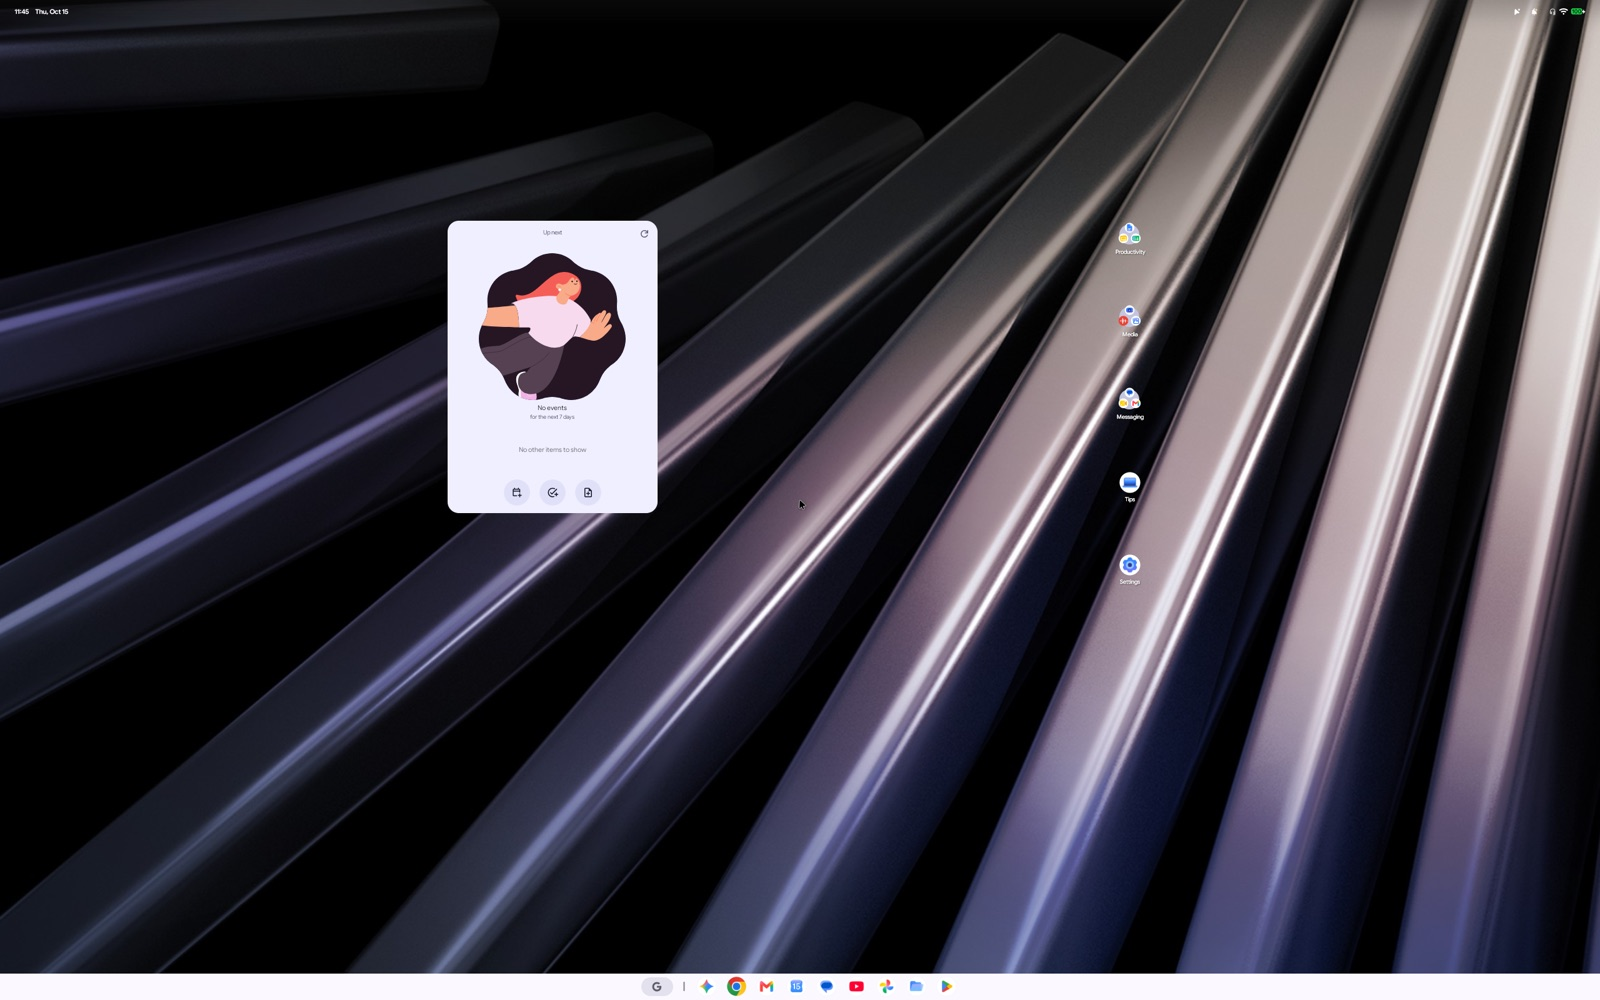
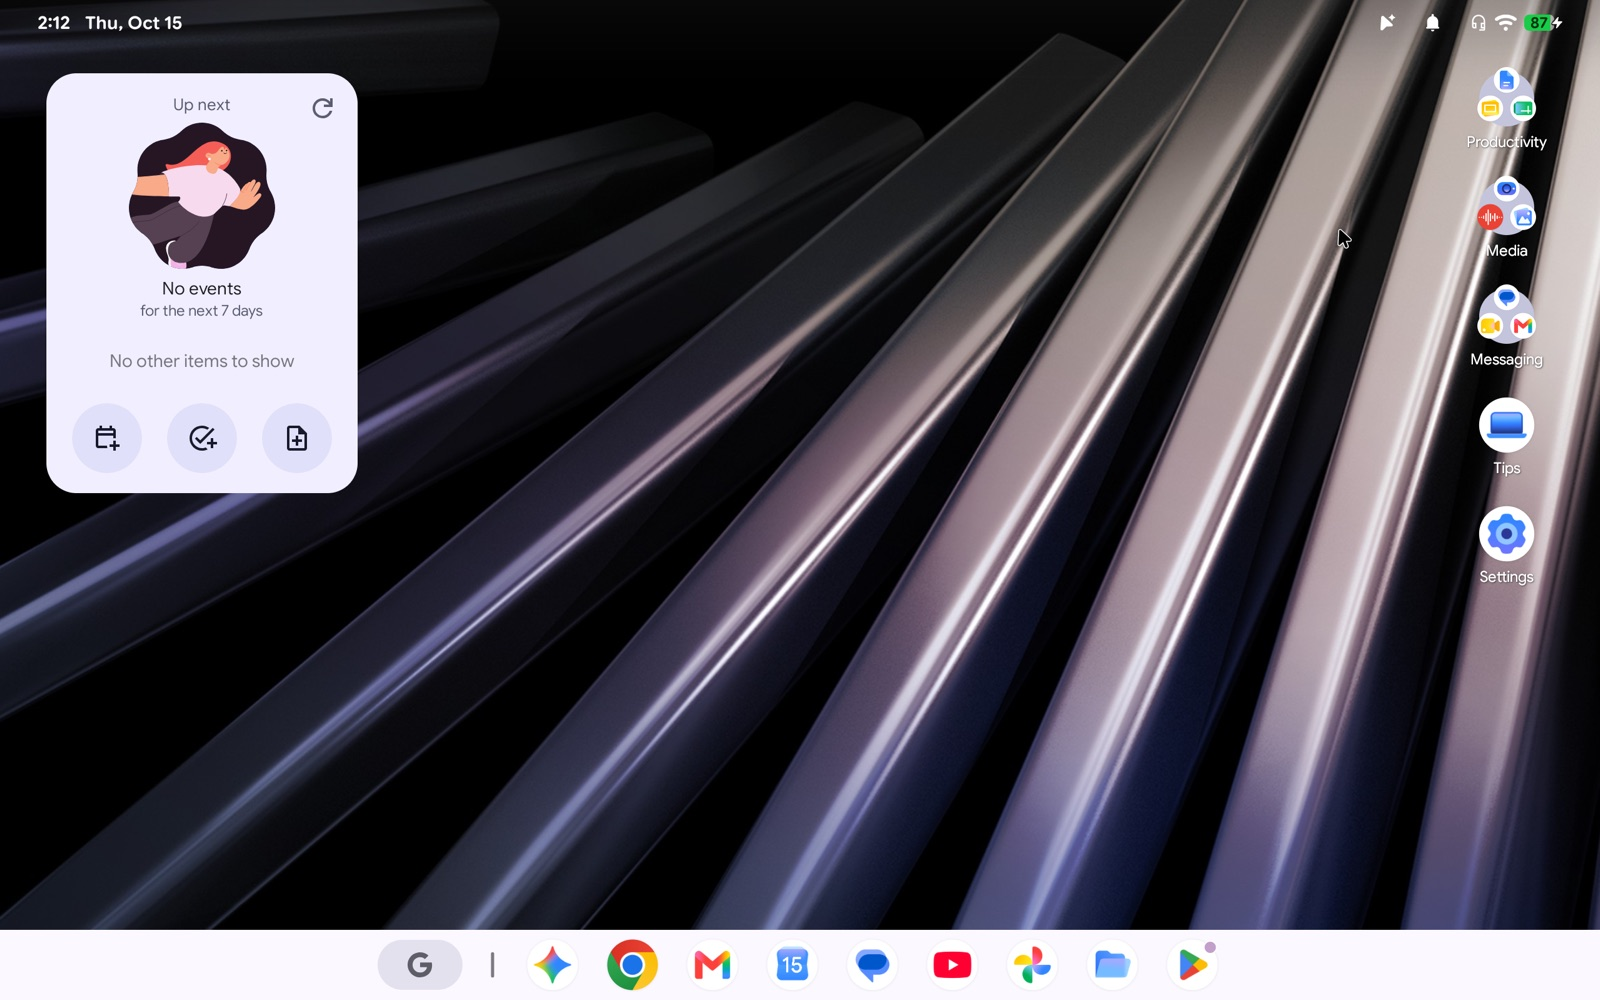
docs: a demo GIF, the right pictures, and a link preview image
The README opens with an animation of Chrome, Files and Settings opening as
windows. The desktop and windows pictures were the wrong captures (an earlier
off-by-one); they're retaken on a fresh test VM. docs/images/social-preview.png
is the image for links to the repository.

diff --git a/README.md b/README.md
@@ -10,7 +10,7 @@ The real Googlebook OS, straight from Google, accelerated by your Mac's GPU. Fre
   &nbsp;·&nbsp; Apple silicon (M1 or newer) &nbsp;·&nbsp; macOS 26 or newer
 </p>
 
-![Googlebook OS running in a window on a Mac](docs/images/desktop.jpg)
+![Googlebook OS on a Mac: Chrome, Files and Settings opening as windows on the desktop](docs/images/demo.gif)
 
 Googlebook OS is Android 17 made for laptops: a desktop with windows, a taskbar, Chrome and Google's apps. Googlebook VM downloads Google's own image for the Dell Googlebook and runs it on your Mac like an app. It isn't an emulator image or a lookalike.
 
@@ -37,7 +37,7 @@ Then Android starts, in about 45 seconds. Next time, it opens straight into Andr
 
 ## Using it
 
-![Settings and Files open side by side, as windows on the Googlebook desktop](docs/images/windows.jpg)
+![Chrome, Files and Settings open as windows on the Googlebook desktop](docs/images/windows.jpg)
 
 Move your pointer into the window and you're using Android. Move it out and you're back on your Mac.
 
